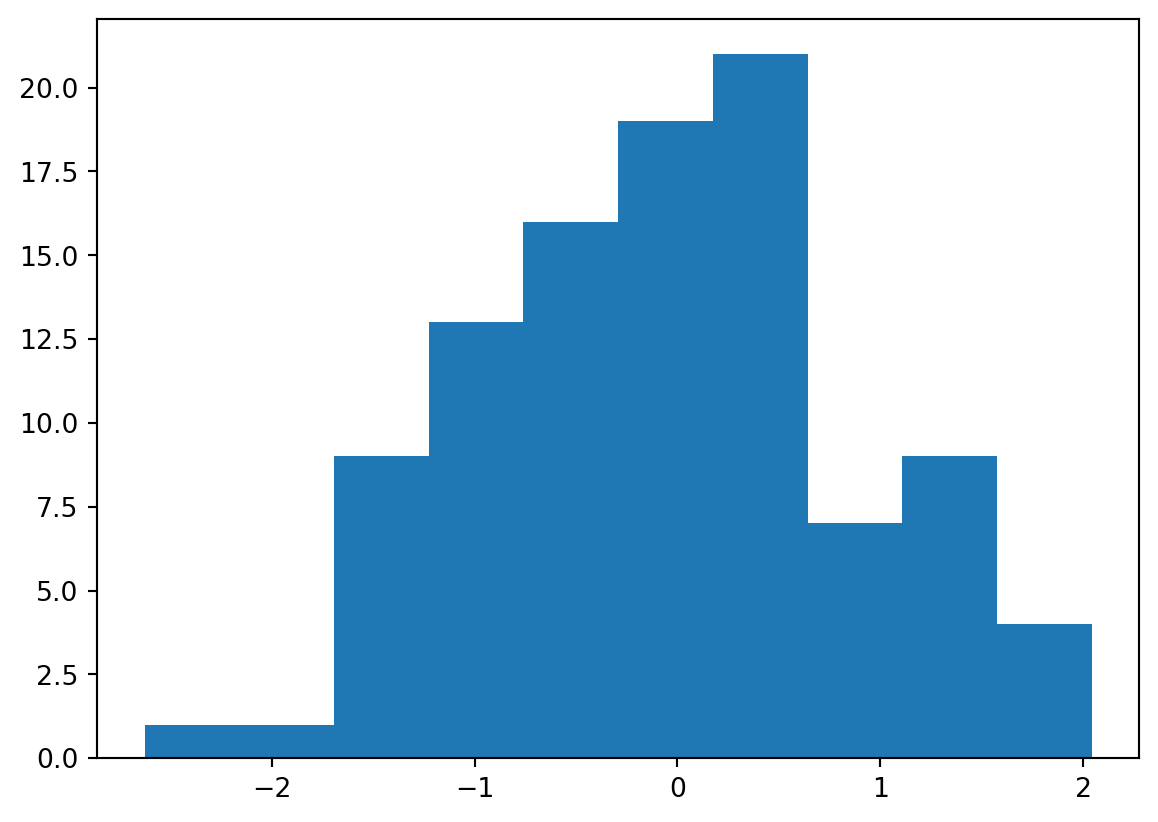
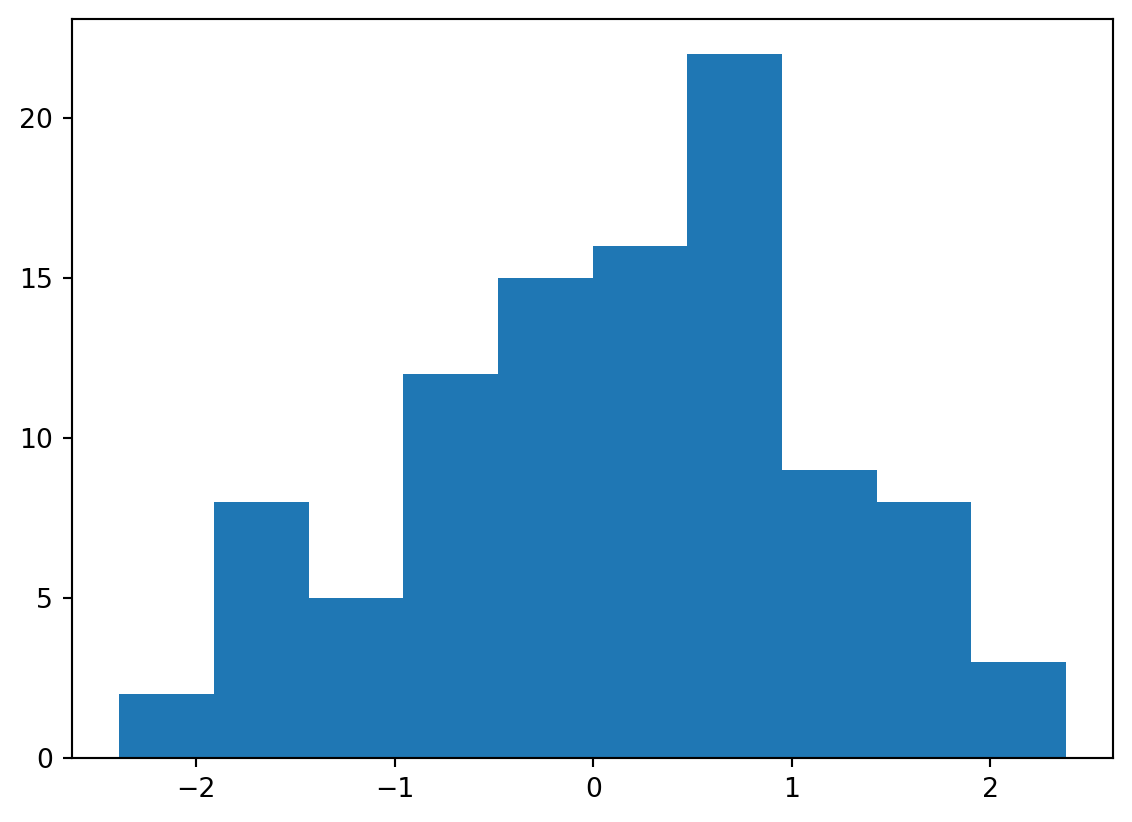
Built site for gh-pages

diff --git a/units/unit3.html b/units/unit3.html
@@ -329,10 +329,10 @@ $$
 <span id="cb1-6"><a href="#cb1-6" aria-hidden="true" tabindex="-1"></a>np.mean(x)</span></code><button title="Copy to Clipboard" class="code-copy-button"><i class="bi"></i></button></pre></div>
 </details>
 <div class="cell-output cell-output-display">
-<p><img src="unit3_files/figure-html/cell-2-output-1.png" width="579" height="411"></p>
+<p><img src="unit3_files/figure-html/cell-2-output-1.png" width="566" height="411"></p>
 </div>
 <div class="cell-output cell-output-display" data-execution_count="1">
-<pre><code>-0.06066492547335374</code></pre>
+<pre><code>0.12421976292959278</code></pre>
 </div>
 </div>
 </section>

diff --git a/units/unit1.html b/units/unit1.html
@@ -335,7 +335,7 @@ $$
 <p><img src="unit1_files/figure-html/cell-2-output-1.png" width="579" height="411"></p>
 </div>
 <div class="cell-output cell-output-display" data-execution_count="1">
-<pre><code>0.08957072412328099</code></pre>
+<pre><code>-0.010881021075911339</code></pre>
 </div>
 </div>
 </section>
